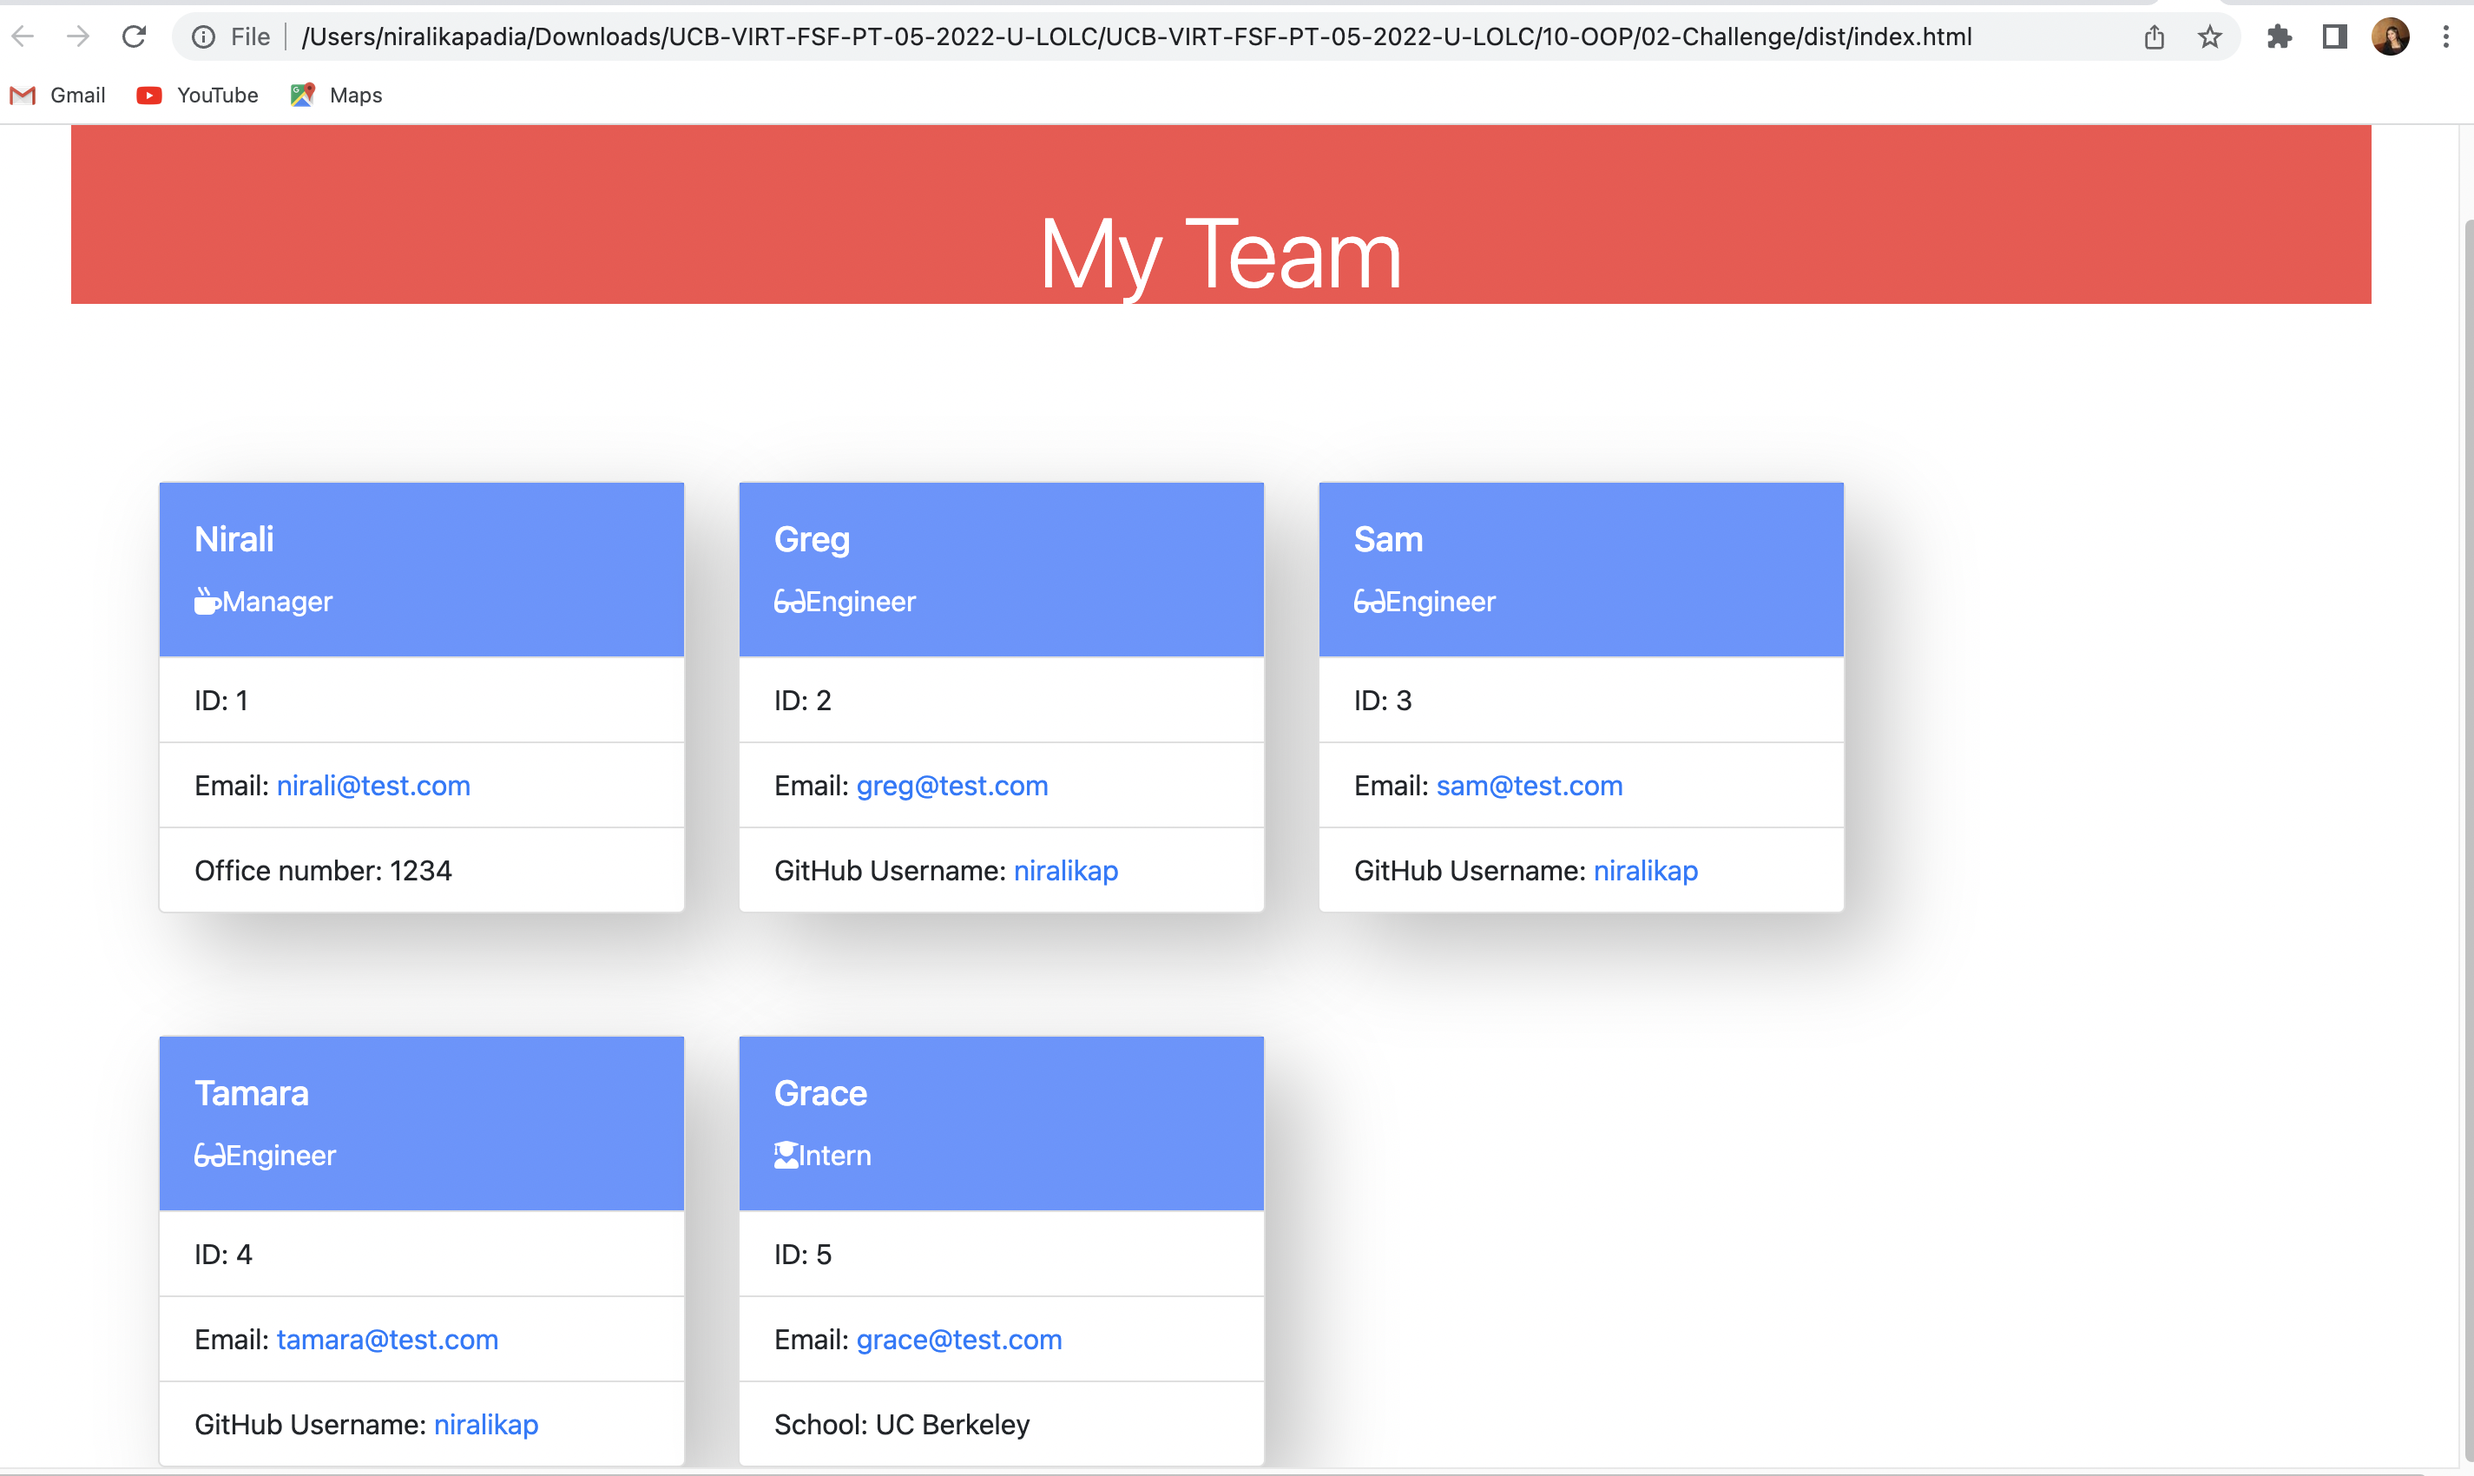
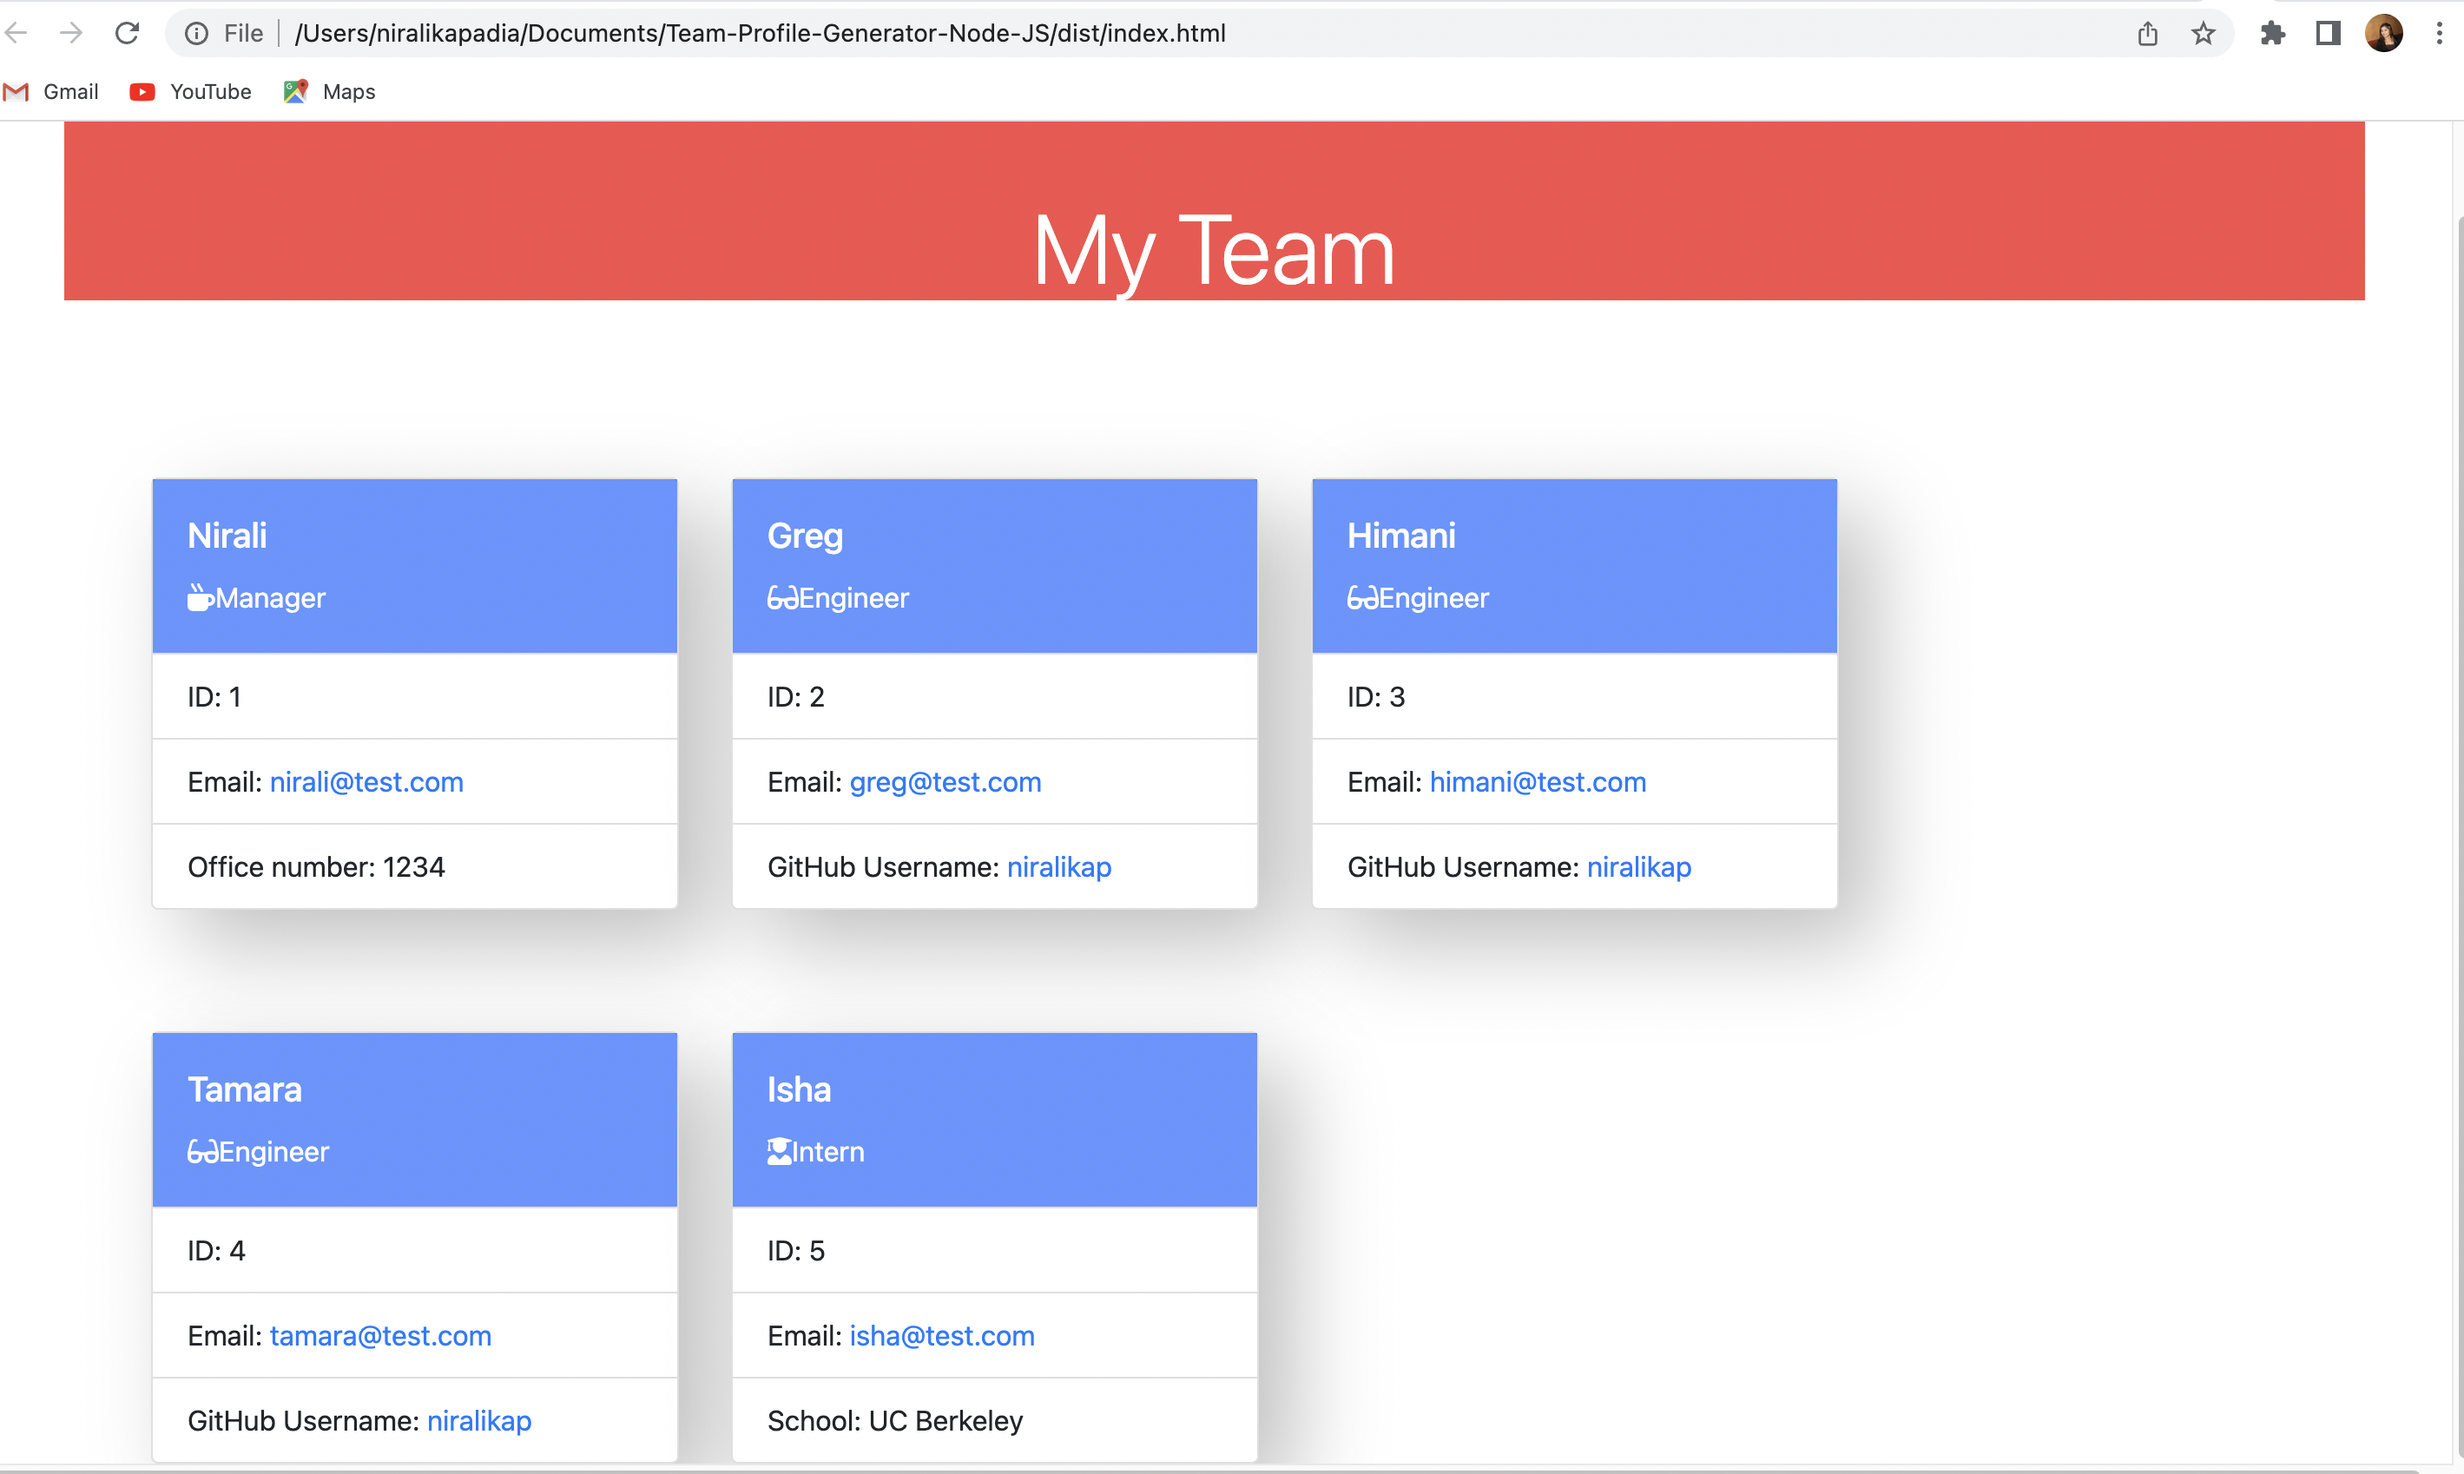
Updates the ReadMe file with the description and screenshot updated

diff --git a/dist/index.html b/dist/index.html
@@ -19,7 +19,7 @@
       href="https://fonts.googleapis.com/css?family=Open+Sans&display=swap"
       rel="stylesheet"
     />
-    <link rel="stylesheet" href="./Assets/css/style.css" />
+    <link rel="stylesheet" href="./dist/style.css" />
     <title>Software Engineering Team</title>
   </head>
   <body>
@@ -65,12 +65,12 @@
         <div class="column" style= "margin-top: 70px; border-radius: 15px;">
         <div class="card" style= "width: 19rem; box-shadow: 20px 20px 50px rgba(0, 0, 0, 0.25);">
     <div class="card-body" style= "background-color: rgba(0, 102, 255, 0.692); color: white;">
-      <h5 class="card-title">Sam</h5>
+      <h5 class="card-title">Himani</h5>
       <p class="card-text"><i class="fas fa-glasses"></i>Engineer</p>
     </div>
     <ul class="list-group list-group-flush">
       <li class="list-group-item">ID: 3</li>
-      <li class="list-group-item">Email: <span id = "email"><a href="mailto:sam@test.com">sam@test.com</a></span></li>
+      <li class="list-group-item">Email: <span id = "email"><a href="mailto:himani@test.com">himani@test.com</a></span></li>
       <li class="list-group-item">GitHub Username: <a target="_blank" href="https://github.com/niralikap">niralikap</a></li> 
       </ul>
   </div>
@@ -93,12 +93,12 @@
         <div class="column" style= "margin-top: 70px; border-radius: 15px;">
         <div class="card" style= "width: 19rem; box-shadow: 20px 20px 50px rgba(0, 0, 0, 0.25);">
     <div class="card-body" style= "background-color: rgba(0, 102, 255, 0.692); color: white;">
-      <h5 class="card-title">Grace</h5>
+      <h5 class="card-title">Isha</h5>
       <p class="card-text"><i class="fas fa-user-graduate"></i>Intern</p>
     </div>
     <ul class="list-group list-group-flush">
       <li class="list-group-item">ID: 5</li>
-      <li class="list-group-item">Email: <span id="email"><a href="mailto:grace@test.com">grace@test.com</a></span></li>
+      <li class="list-group-item">Email: <span id="email"><a href="mailto:isha@test.com">isha@test.com</a></span></li>
       <li class="list-group-item">School: UC Berkeley</li>
     </ul>
     </div>
